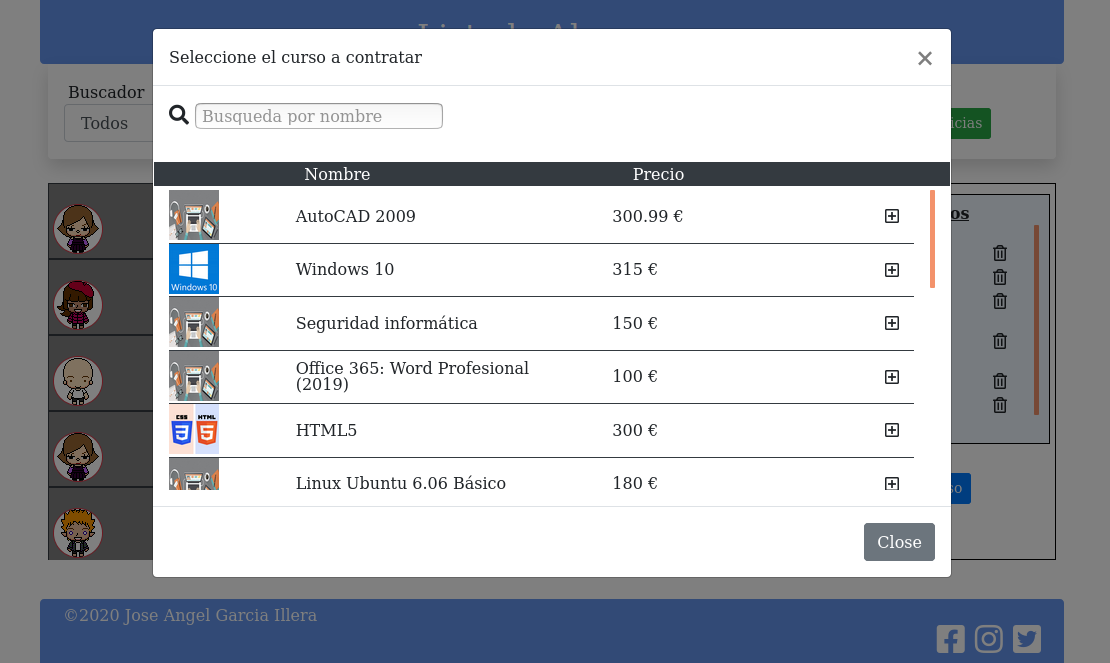
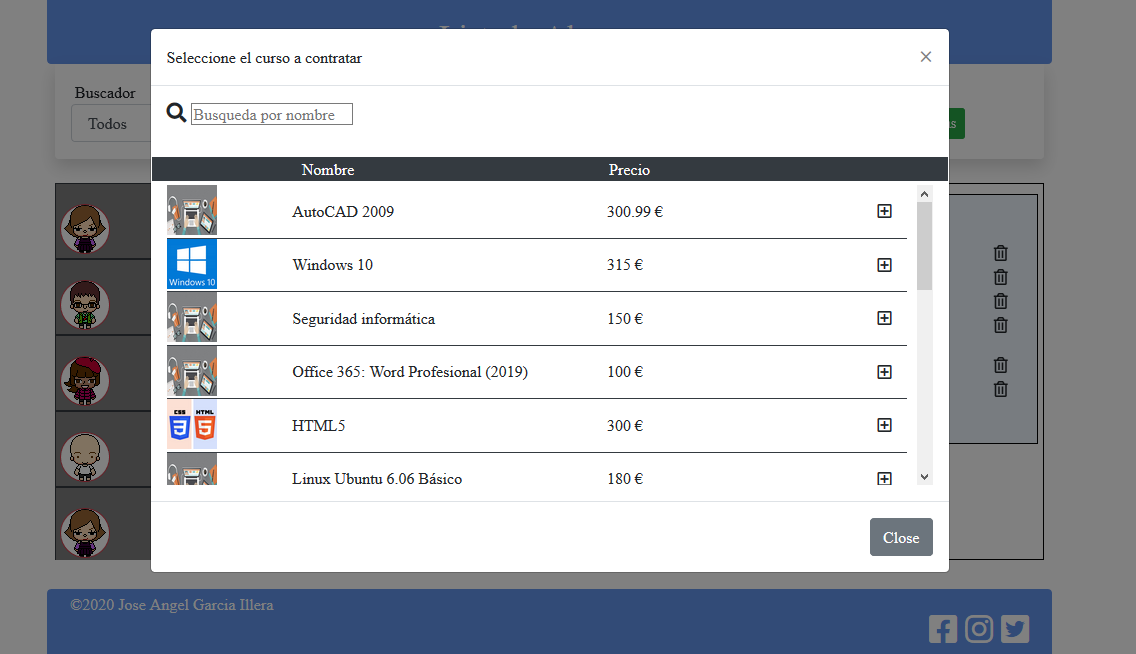
Modificado Precio en Modal y su imagen

diff --git a/appclient/index.html b/appclient/index.html
@@ -188,7 +188,7 @@
             <div class="col-5">
               <p>Nombre</p>
             </div>
-            <div class="col-3">
+            <div class="col-3" style="margin-left:-21px">
               <p>Precio</p>
             </div>
             <div class="col-1">
